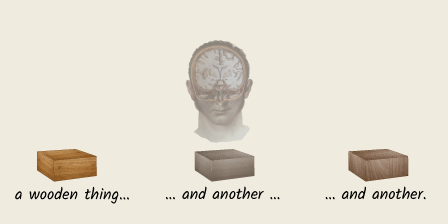
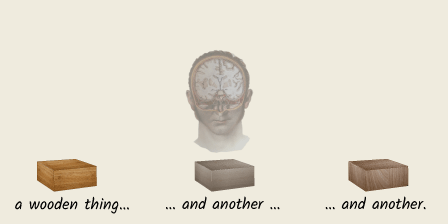
feat: add three concept images to what is a concept sub-section

Changed region(s): [[0.375, 0.1562, 0.625, 0.9375], [0.7188, 0.6562, 0.9688, 0.9375], [0.0312, 0.6562, 0.2812, 0.9688]]

diff --git a/articles/what-is-abstraction/content/main-content.html b/articles/what-is-abstraction/content/main-content.html
@@ -56,8 +56,11 @@
 					</p>
 				</div>
 				<div class="subSec_imgWrap">
-					<img  class="subSec_img mb-1" src="content/images/three-blocks-concept-one.png" alt="placeholder" width="448" height="224" style="background:#DDD" loading="lazy">
-					<img  class="subSec_img" src="content/images/three-blocks-concept-one.png" alt="placeholder" width="448" height="224" style="background:#DDD" loading="lazy">
+					<img  class="subSec_img mb-1" src="content/images/three-blocks-concept-one.png" alt="illustration of disembodied man’s head observing three wooden blocks, each different type of wood" width="448" height="224" loading="lazy">
+					<img class="subSec_img mb-1" src="content/images/three-blocks-concept-two.png" alt="placeholder" width="448" height="224" loading="lazy"
+					alt="illustration of disembodied man's head seeing the three blocks in his mind’s eye">
+					<img class="subSec_img" src="content/images/three-blocks-concept-three.png" alt="placeholder" width="448" height="224" loading="lazy"
+					alt="illustration of disembodied man's head forming concept of a 'block' from things he has seen">
 				</div>
 			</div>
 			<hr class="subSec_hr"/>

diff --git a/content/main-content.html b/content/main-content.html
@@ -46,7 +46,7 @@
 		<div class="sectionBreak">&#8258;</div>
 		<section>
 			<header class="main_section-header">
-				<img class="section_header-image" src="content/images/newton.jpg" alt="illustration of Issac Newton, on top of King's College chapel, looking down on a crowd" width="1200" height="675" loading="lazy">
+				<img class="section_header-image" src="content/images/newton-new.jpg" alt="illustration of Issac Newton, on top of King's College chapel, looking down on a crowd" width="1200" height="675" loading="lazy">
 				<h2>Are math and science just fundamentally difficult?</h2>	
 			</header>
 			<p>Are these subjects beyond the ability of ordinary people,
